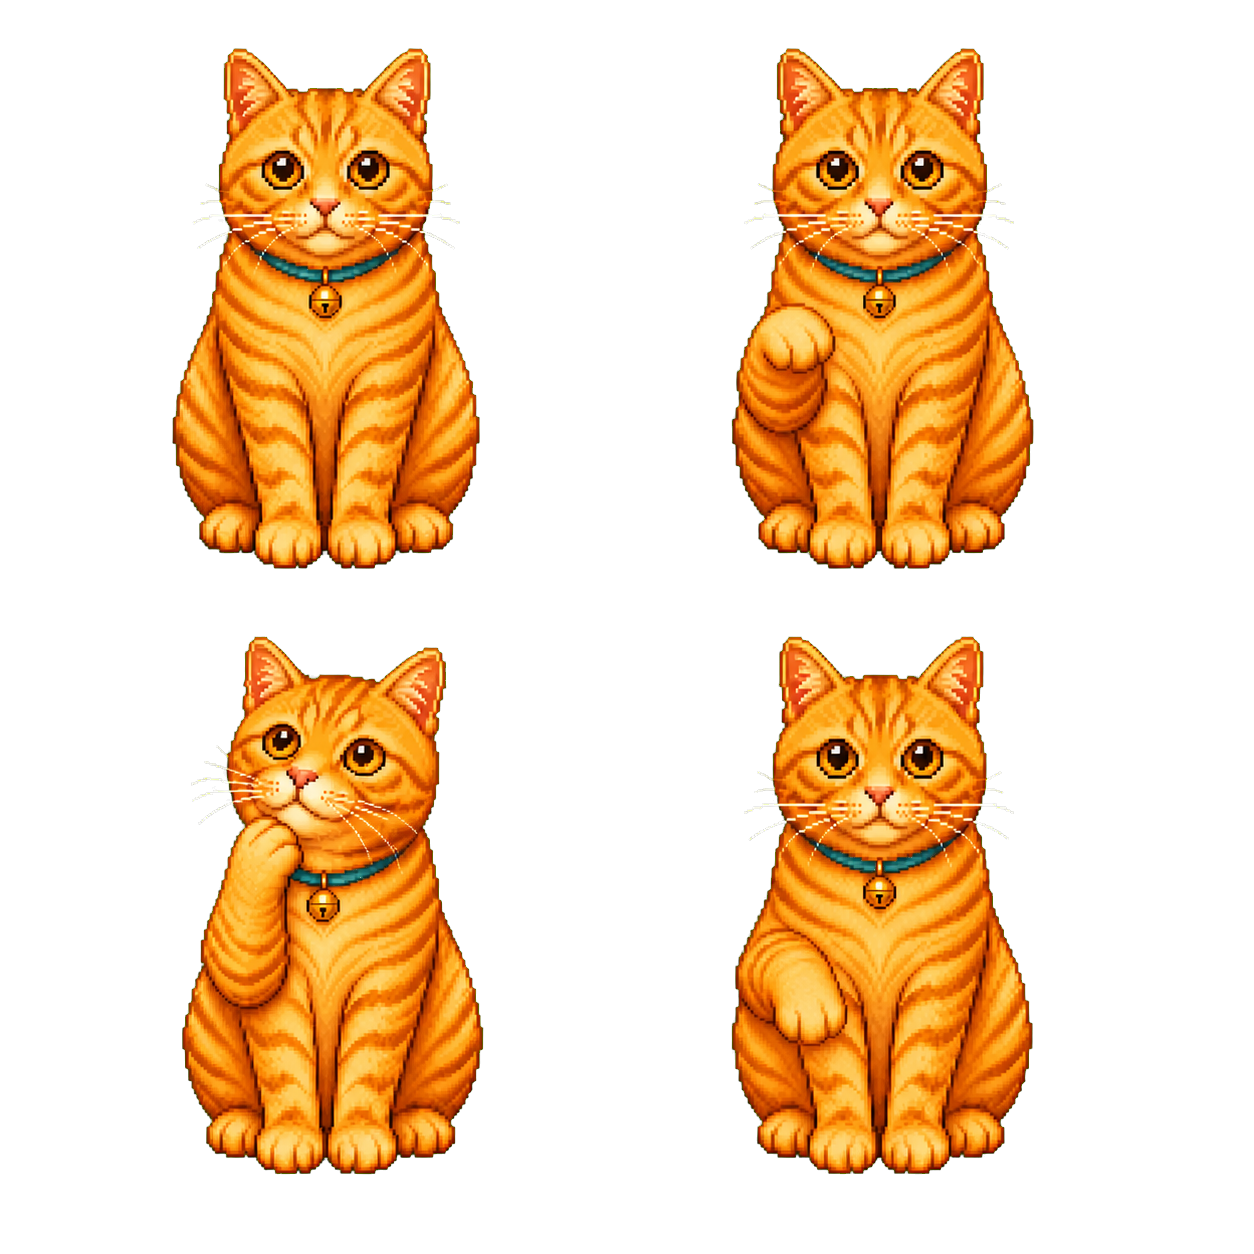
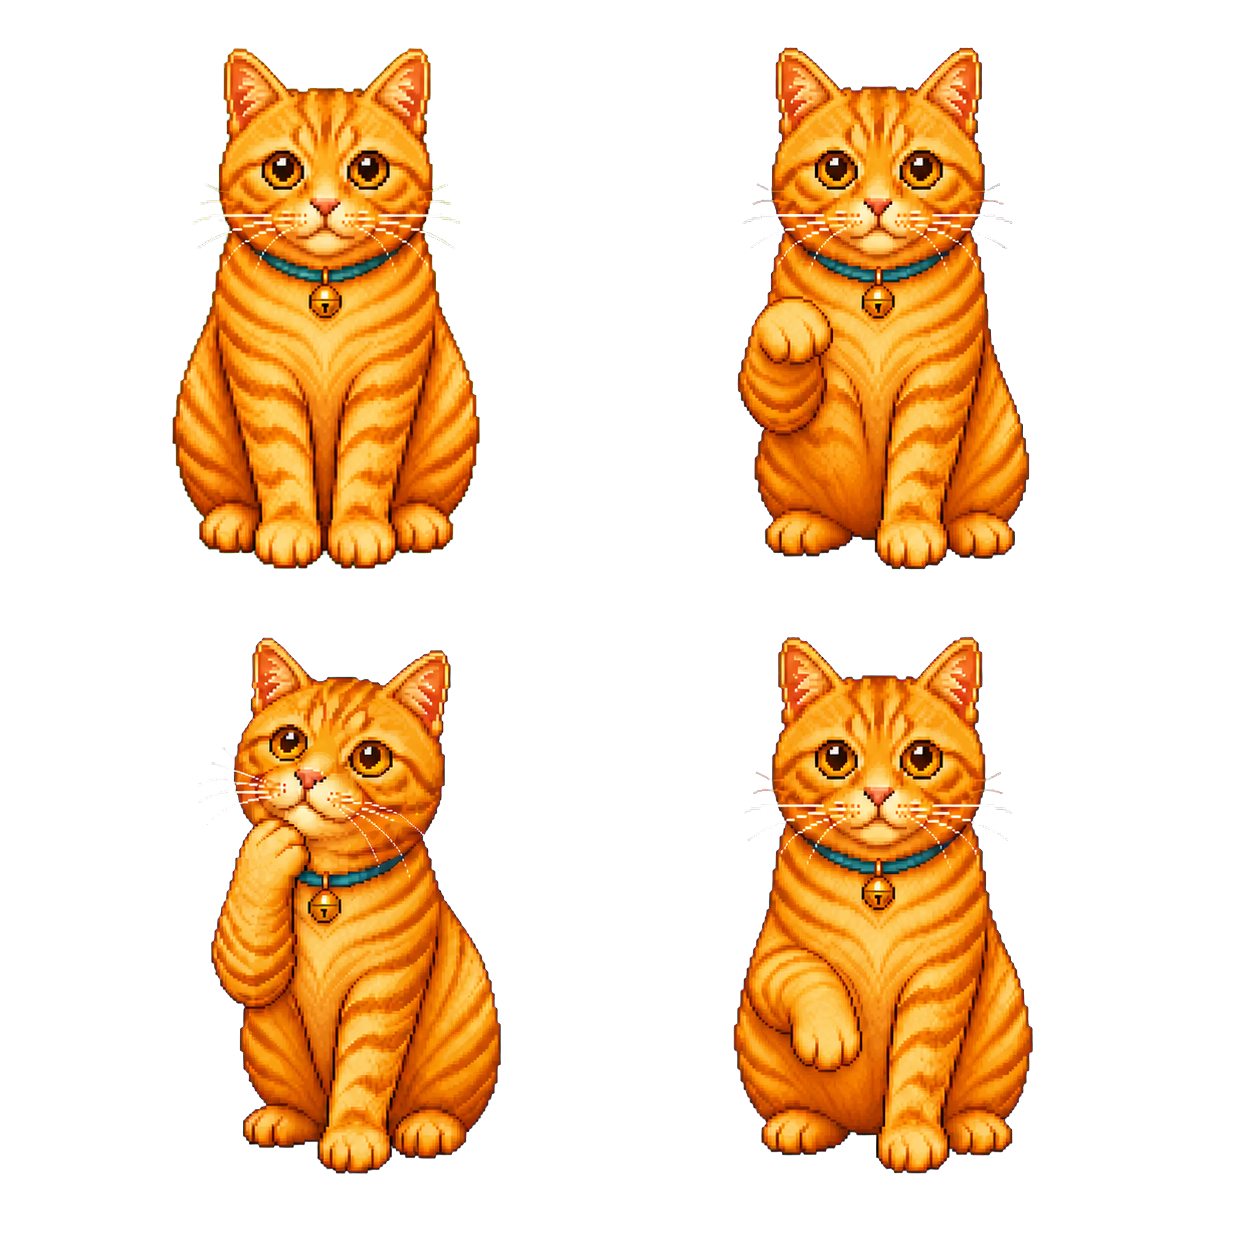
Fix thinking pet anatomy

Changed region(s): [[0.1244, 0.4976, 0.4043, 0.933], [0.5598, 0.0311, 0.8397, 0.4665], [0.5598, 0.4976, 0.8397, 0.933]]

diff --git a/src/renderer/components/pet-clips.ts b/src/renderer/components/pet-clips.ts
@@ -42,7 +42,7 @@ const clip = (name: string, options: Omit<PetClip, "src">): PetClip => ({
 const refreshedClipSource = (name: string, revision: string) =>
   `./pet/moods/pet-${name}-v1.gif?rev=${revision}`;
 
-const THINKING_CLIP_SOURCE = refreshedClipSource("thinking", "8a267ee4b6e6");
+const THINKING_CLIP_SOURCE = refreshedClipSource("thinking", "8db7a77497a4");
 const LISTENING_CLIP_SOURCE = refreshedClipSource("listening", "3adb18e68ec3");
 
 const reusedMoodClip = (

diff --git a/src/renderer/components/pet-clips.test.ts b/src/renderer/components/pet-clips.test.ts
@@ -157,7 +157,7 @@ describe("pet GIF clips", () => {
   });
 
   it.each([
-    ["thinking", "8a267ee4b6e6"],
+    ["thinking", "8db7a77497a4"],
     ["listening", "3adb18e68ec3"],
   ] as const)("binds the %s cache revision to its GIF content", (mood, revision) => {
     const media = PET_CLIPS[mood];
